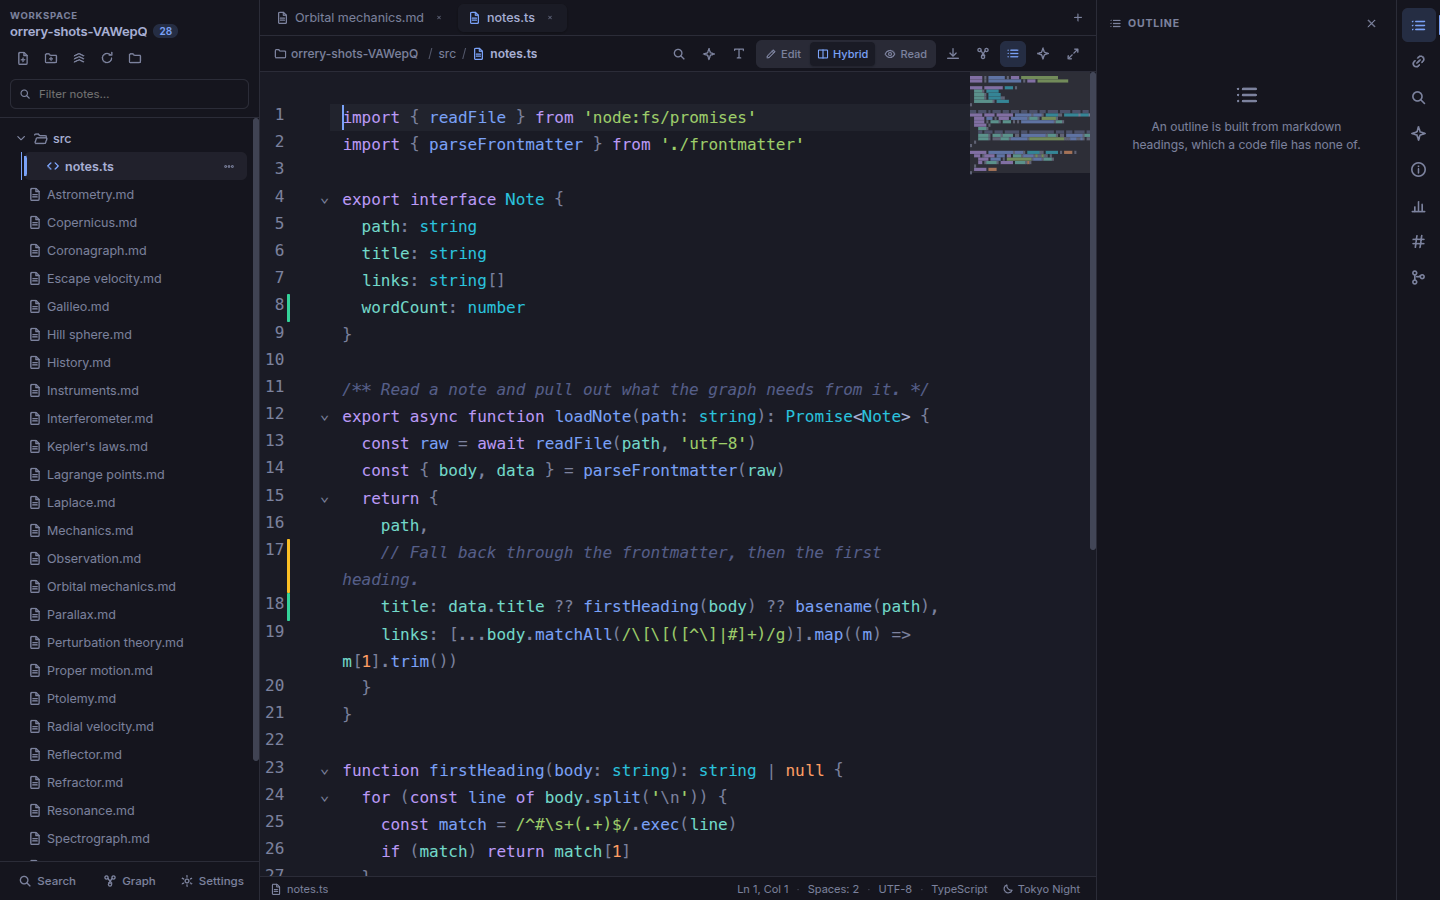
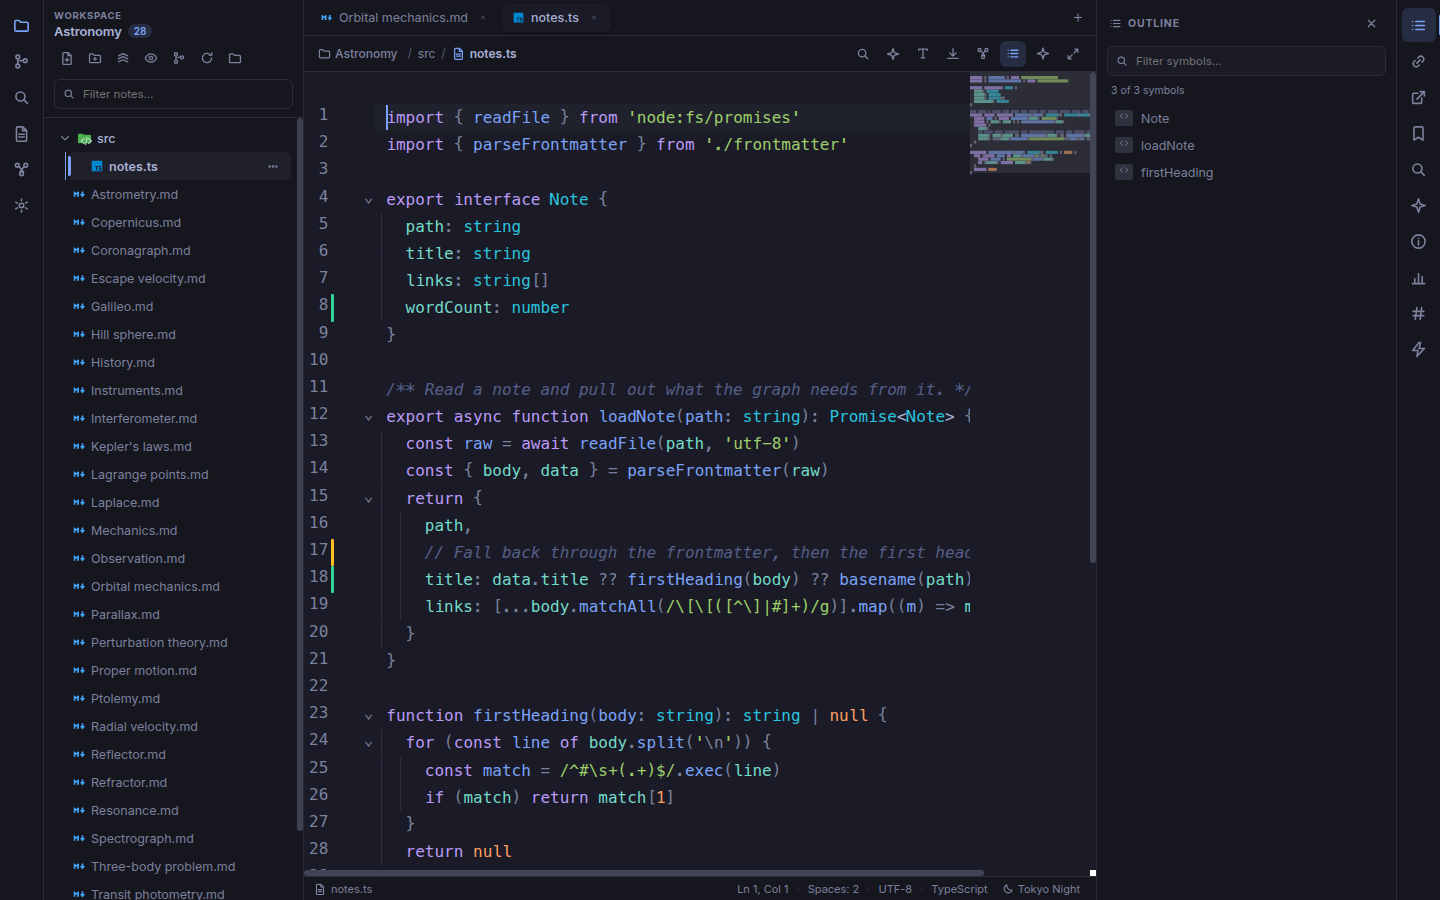
docs: retake the screenshots, and fix what retaking them showed
The four pictures in the README were 89 commits old. Source control had
moved into the left sidebar since, so the diff screenshot showed a panel
in a place it no longer appears, which is the worst kind of stale: not
merely dated, but wrong about where things are.

They were stale because the generator could not be run. The instruction
at the top of it named a folder outside Playwright's `testDir`, and
Playwright has no flag to point at another one, so the documented command
had never worked. There is a config for it now, and `./orrery.sh shots`.

Three things the retake turned up.

**The terminal was drawing the developer's shell prompt**, so the first
new picture carried a real username and hostname into a file bound for a
public repository. The generator sets `PS1='$ '` and clears before it
types anything, which is also simply easier to read at screenshot size.

**The vault was called `orrery-shots-Q1q0bo`**, on screen three times:
the sidebar title, the breadcrumb and the terminal's working directory.
It is called Astronomy now, which is what the notes in it are about.

**The graph said "1 files".** A vault with a single source file in it
had been saying that for as long as code has been on the map, and it
took a screenshot to notice. Fixed in `GraphView`, and visible in the
new picture as "1 file".

Two more things about the pictures themselves. The diff shot had the
outline panel open with nothing to outline, so a quarter of it read "No
[…]

diff --git a/scripts/screenshots/shots.spec.ts b/scripts/screenshots/shots.spec.ts
@@ -13,9 +13,12 @@ import { closeCleanly, launchApp, openVault } from '../../e2e/helpers'
  * writes into the working tree, and a suite that dirties the repository every
  * time CI runs is a suite people learn to ignore.
  *
- *   npx playwright test --config playwright.config.ts scripts/screenshots
+ *   ./orrery.sh shots
  *
- * Re-run it when the interface changes enough that the pictures lie.
+ * Re-run it when the interface changes enough that the pictures lie. It has its
+ * own Playwright config because this folder is outside `testDir` and Playwright
+ * has no flag to point at another one, so the instruction that used to be here
+ * could not run at all: the pictures went eighty-nine commits stale unnoticed.
  */
 const OUT = 'docs/screenshots'
 const THEME = 'tokyo-night'
@@ -105,9 +108,16 @@ const run = (args: string[], cwd: string): void => {
 let app: ElectronApplication
 let page: Page
 let vault: string
+/** The temp directory holding it, which is what gets cleaned up. */
+let scratch: string
 
 test.beforeAll(async () => {
-  vault = mkdtempSync(join(tmpdir(), 'orrery-shots-'))
+  // The folder's name is on screen three times: the sidebar title, the
+  // breadcrumb and the terminal's working directory. `orrery-shots-Xq10bo`
+  // reads as a test fixture, which is what it is, but the pictures are the
+  // first thing anyone sees of the app.
+  scratch = mkdtempSync(join(tmpdir(), 'orrery-shots-'))
+  vault = join(scratch, 'Astronomy')
   mkdirSync(join(vault, 'src'), { recursive: true })
   writeFileSync(join(vault, 'Orbital mechanics.md'), NOTE)
   writeFileSync(
@@ -194,7 +204,7 @@ test.beforeAll(async () => {
 
 test.afterAll(async () => {
   await closeCleanly(app, page)
-  rmSync(vault, { recursive: true, force: true })
+  rmSync(scratch, { recursive: true, force: true })
 })
 
 test('editor', async () => {
@@ -232,8 +242,23 @@ test('diff and terminal', async () => {
       commandId: 'view.toggleTerminal'
     })
   })
+  // The outline has nothing to say about a TypeScript diff, and an empty panel
+  // reading "No headings found" takes a quarter of the picture and clips the
+  // working-tree column of the very diff the caption is about.
+  await app.evaluate(({ BrowserWindow }) => {
+    BrowserWindow.getAllWindows()[0]?.webContents.send('menu:command', {
+      commandId: 'view.toggleOutline'
+    })
+  })
   await expect(page.locator('.term-panel')).toBeVisible({ timeout: 15_000 })
   await page.locator('.term-panel__host').click()
+  // The shell is the developer's own, and so is its prompt: the first run of
+  // this put `someone@their-laptop` into a picture bound for a public README.
+  // A bare `$` is also simply easier to read at screenshot size.
+  await page.waitForTimeout(700)
+  await page.keyboard.type("PS1='$ '; clear")
+  await page.keyboard.press('Enter')
+  await page.waitForTimeout(700)
   await page.keyboard.type('git status --short && git log --oneline -3')
   await page.keyboard.press('Enter')
   await page.waitForTimeout(1600)
@@ -241,6 +266,11 @@ test('diff and terminal', async () => {
   await app.evaluate(({ BrowserWindow }) => {
     BrowserWindow.getAllWindows()[0]?.webContents.send('menu:command', {
       commandId: 'view.toggleTerminal'
+    })
+  })
+  await app.evaluate(({ BrowserWindow }) => {
+    BrowserWindow.getAllWindows()[0]?.webContents.send('menu:command', {
+      commandId: 'view.toggleOutline'
     })
   })
   await page.locator('.diff button[aria-label="Close"]').click()
@@ -253,6 +283,14 @@ test('graph', async () => {
     })
   })
   await expect(page.locator('.graph__canvas')).toBeVisible({ timeout: 20_000 })
+
+  // Colour by cluster. It is off by default, and the caption in the README
+  // talks about the clusters the graph found: with every node the same blue,
+  // the picture was not showing the thing the sentence beside it described.
+  await page.locator('button[aria-label="Graph Physics & Display Settings"]').click()
+  await page.locator('.graph__panel select').nth(1).selectOption('cluster')
+  await page.locator('button[aria-label="Graph Physics & Display Settings"]').click()
+
   await page.waitForTimeout(6000)
   await page.screenshot({ path: `${OUT}/graph.png` })
   await app.evaluate(({ BrowserWindow }) => {

diff --git a/playwright.screenshots.config.ts b/playwright.screenshots.config.ts
@@ -1,0 +1,31 @@
+import { defineConfig } from '@playwright/test'
+
+/**
+ * The README screenshots, which are generated rather than taken by hand.
+ *
+ * A config of its own because the generator cannot live in `e2e/`: it writes
+ * into the working tree, and a suite that dirties the repository on every CI
+ * run is a suite people learn to ignore. Playwright has no `--testDir` flag, so
+ * pointing at the folder from the command line does not work, and the
+ * instruction that used to be written at the top of the generator could never
+ * have run. That is why the pictures went eighty-nine commits out of date
+ * without anyone noticing.
+ *
+ *   ./orrery.sh shots
+ *
+ * Everything else is the e2e config: the same built app in `out/`, one worker,
+ * and the same global setup, which is what refuses a run that would throw
+ * windows onto a desktop somebody is working on.
+ */
+export default defineConfig({
+  testDir: './scripts/screenshots',
+  globalSetup: './e2e/global-setup.ts',
+  timeout: 60_000,
+  fullyParallel: false,
+  workers: 1,
+  retries: 0,
+  reporter: [['list']],
+  use: {
+    trace: 'retain-on-failure'
+  }
+})

diff --git a/src/renderer/src/components/GraphView.tsx b/src/renderer/src/components/GraphView.tsx
@@ -147,10 +147,13 @@ export function GraphView(): React.JSX.Element | null {
     // Named for what is actually on the map: calling a source file a note was
     // fine while the graph only had notes in it.
     const code = nodes.filter((n) => n.kind === 'code').length
+    // A vault with one source file in it read "1 files", which is the sort of
+    // thing that is invisible until it is in a screenshot.
+    const count = (n: number, one: string, many: string): string => `${n} ${n === 1 ? one : many}`
     setStatus(
       code > 0
-        ? `${nodes.length - code} notes · ${code} files · ${edges.length} links`
-        : `${nodes.length} notes · ${edges.length} links`
+        ? `${count(nodes.length - code, 'note', 'notes')} · ${count(code, 'file', 'files')} · ${count(edges.length, 'link', 'links')}`
+        : `${count(nodes.length, 'note', 'notes')} · ${count(edges.length, 'link', 'links')}`
     )
   }, [activePath])
 
